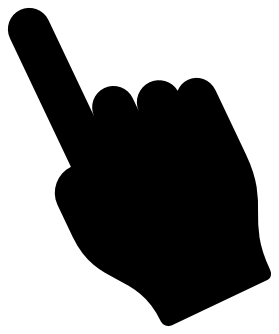
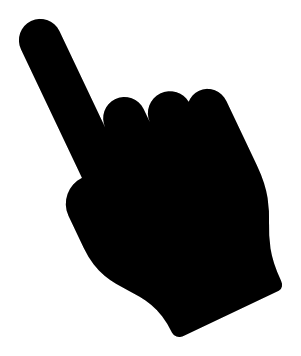
Fix aliasing in idle screen

Changed region(s): [[0.0287, 0.0, 0.9749, 0.988], [0.172, 0.0599, 0.2294, 0.1497]]

diff --git a/idlescreen.py b/idlescreen.py
@@ -18,6 +18,7 @@
 
 import time, math
 import OpenGL.GL as gl
+import OpenGL.GLU as glu
 import PIL
 
 class ImageTexture(object):
@@ -26,12 +27,13 @@ class ImageTexture(object):
 		self.texid = gl.glGenTextures(1)
 
 		gl.glBindTexture(gl.GL_TEXTURE_2D, self.texid)
-		gl.glTexParameteri(gl.GL_TEXTURE_2D, gl.GL_TEXTURE_MIN_FILTER, gl.GL_LINEAR);
+		gl.glTexParameteri(gl.GL_TEXTURE_2D, gl.GL_TEXTURE_MIN_FILTER, gl.GL_LINEAR_MIPMAP_NEAREST);
 		gl.glTexParameteri(gl.GL_TEXTURE_2D, gl.GL_TEXTURE_MAG_FILTER, gl.GL_LINEAR);
+		gl.glTexParameteri(gl.GL_TEXTURE_2D, gl.GL_TEXTURE_WRAP_S, gl.GL_CLAMP);
+		gl.glTexParameteri(gl.GL_TEXTURE_2D, gl.GL_TEXTURE_WRAP_T, gl.GL_CLAMP);
 
-		gl.glTexImage2D(gl.GL_TEXTURE_2D, 0, gl.GL_RGBA,
-						self.width, self.height, 0,
-						gl.GL_RGBA, gl.GL_UNSIGNED_BYTE, self.image.tostring())
+		glu.gluBuild2DMipmaps(gl.GL_TEXTURE_2D, 4, self.width, self.height, gl.GL_RGBA,
+				      gl.GL_UNSIGNED_BYTE, self.image.tostring())
 
 	@property
 	def width(self):
